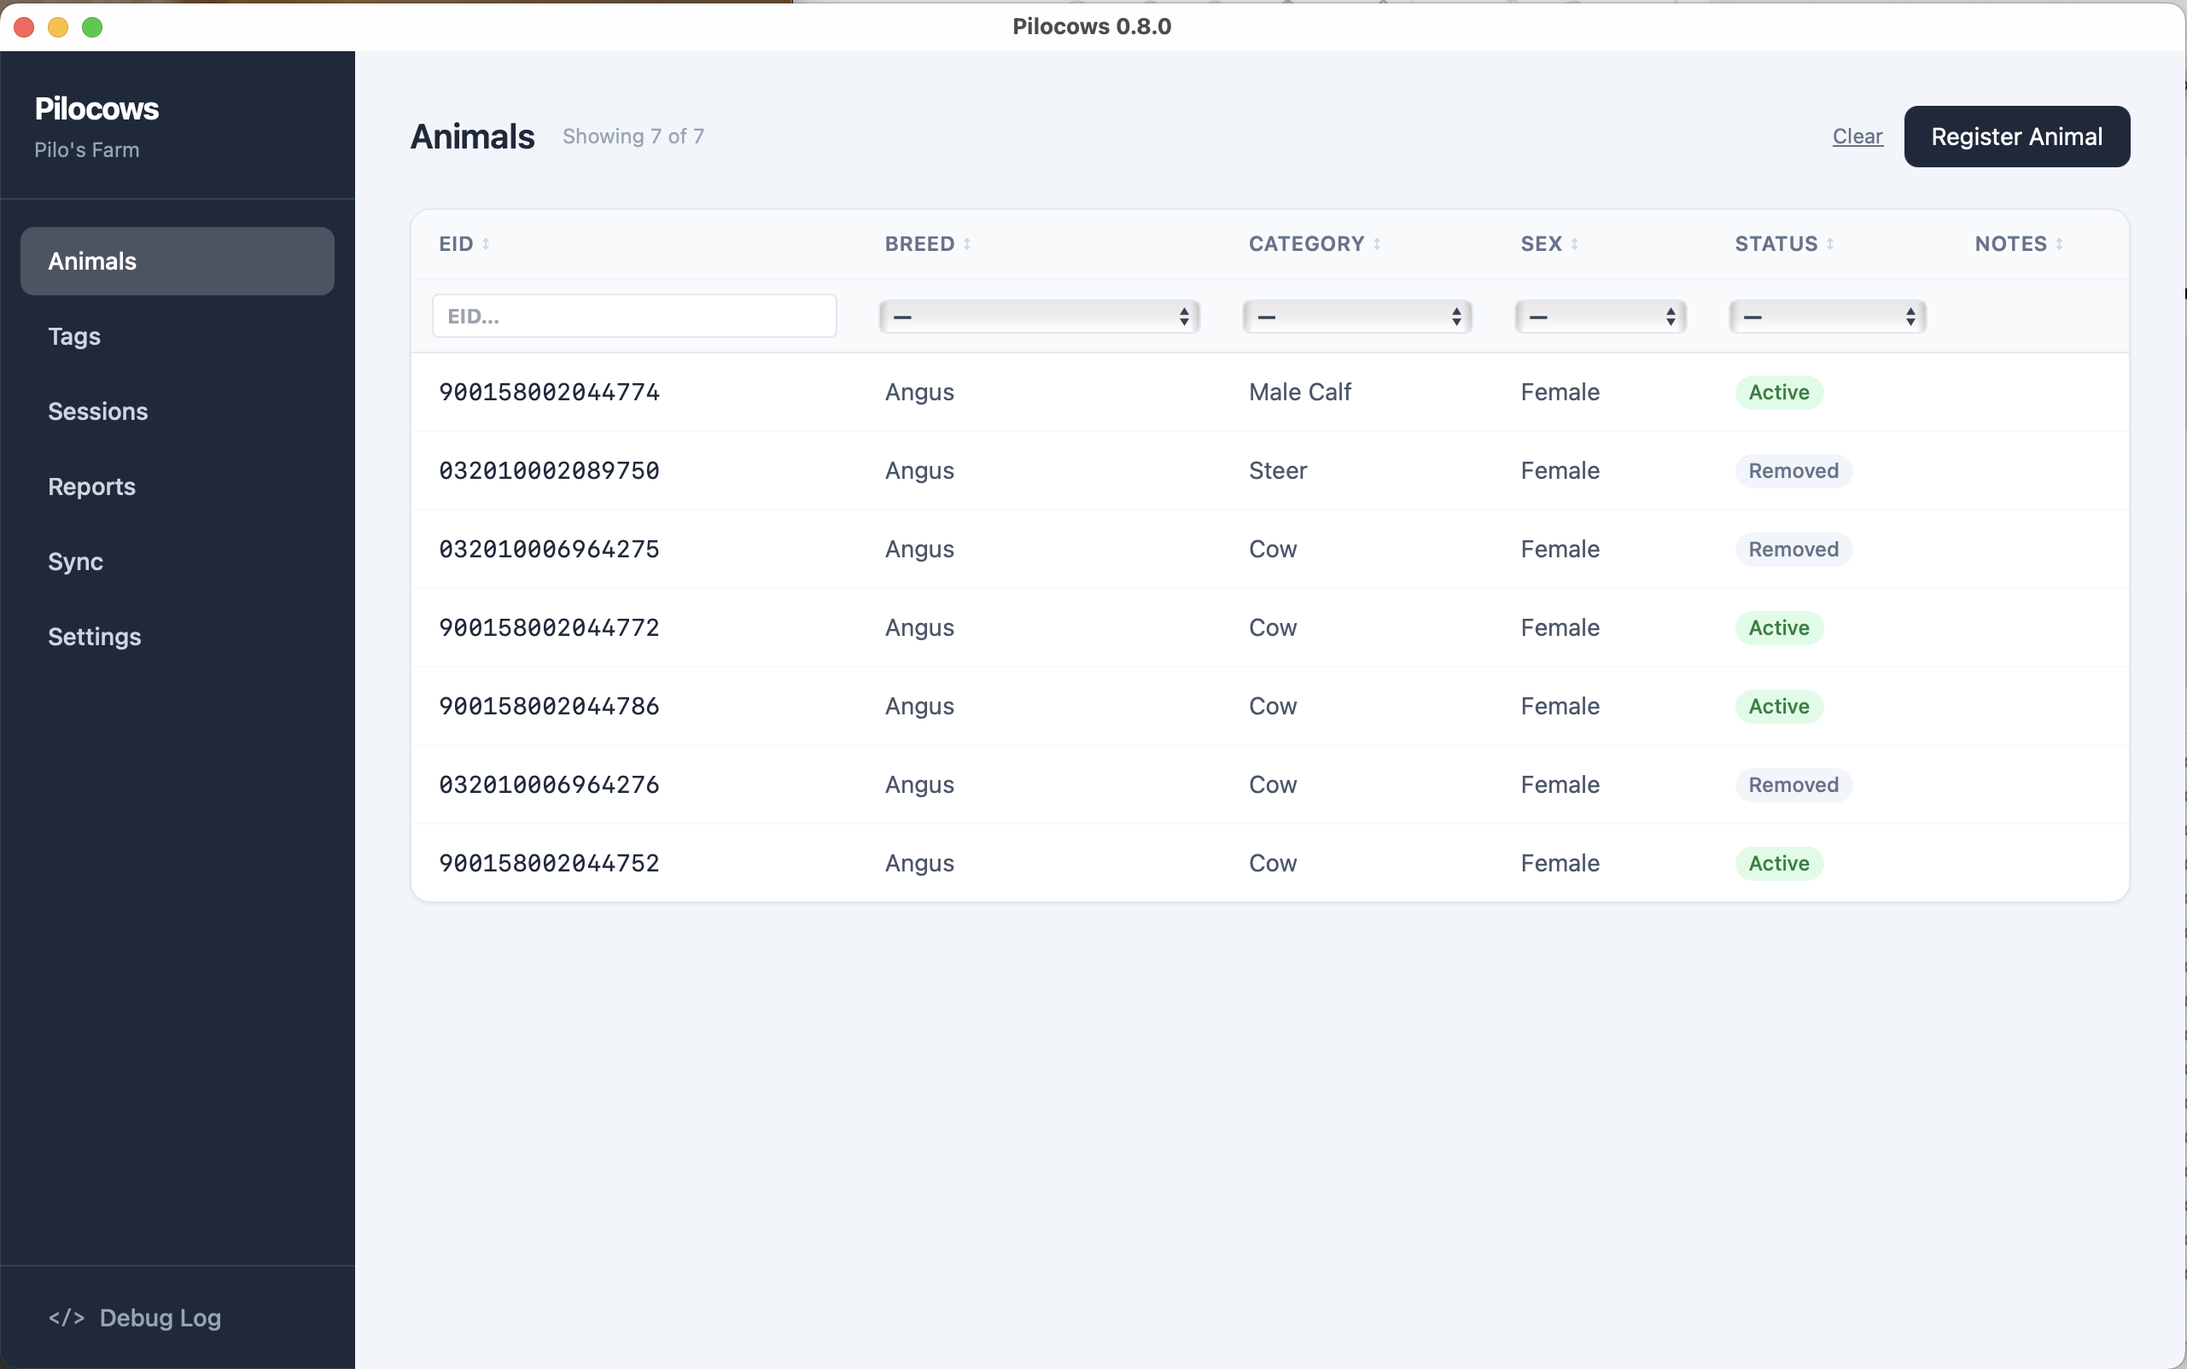
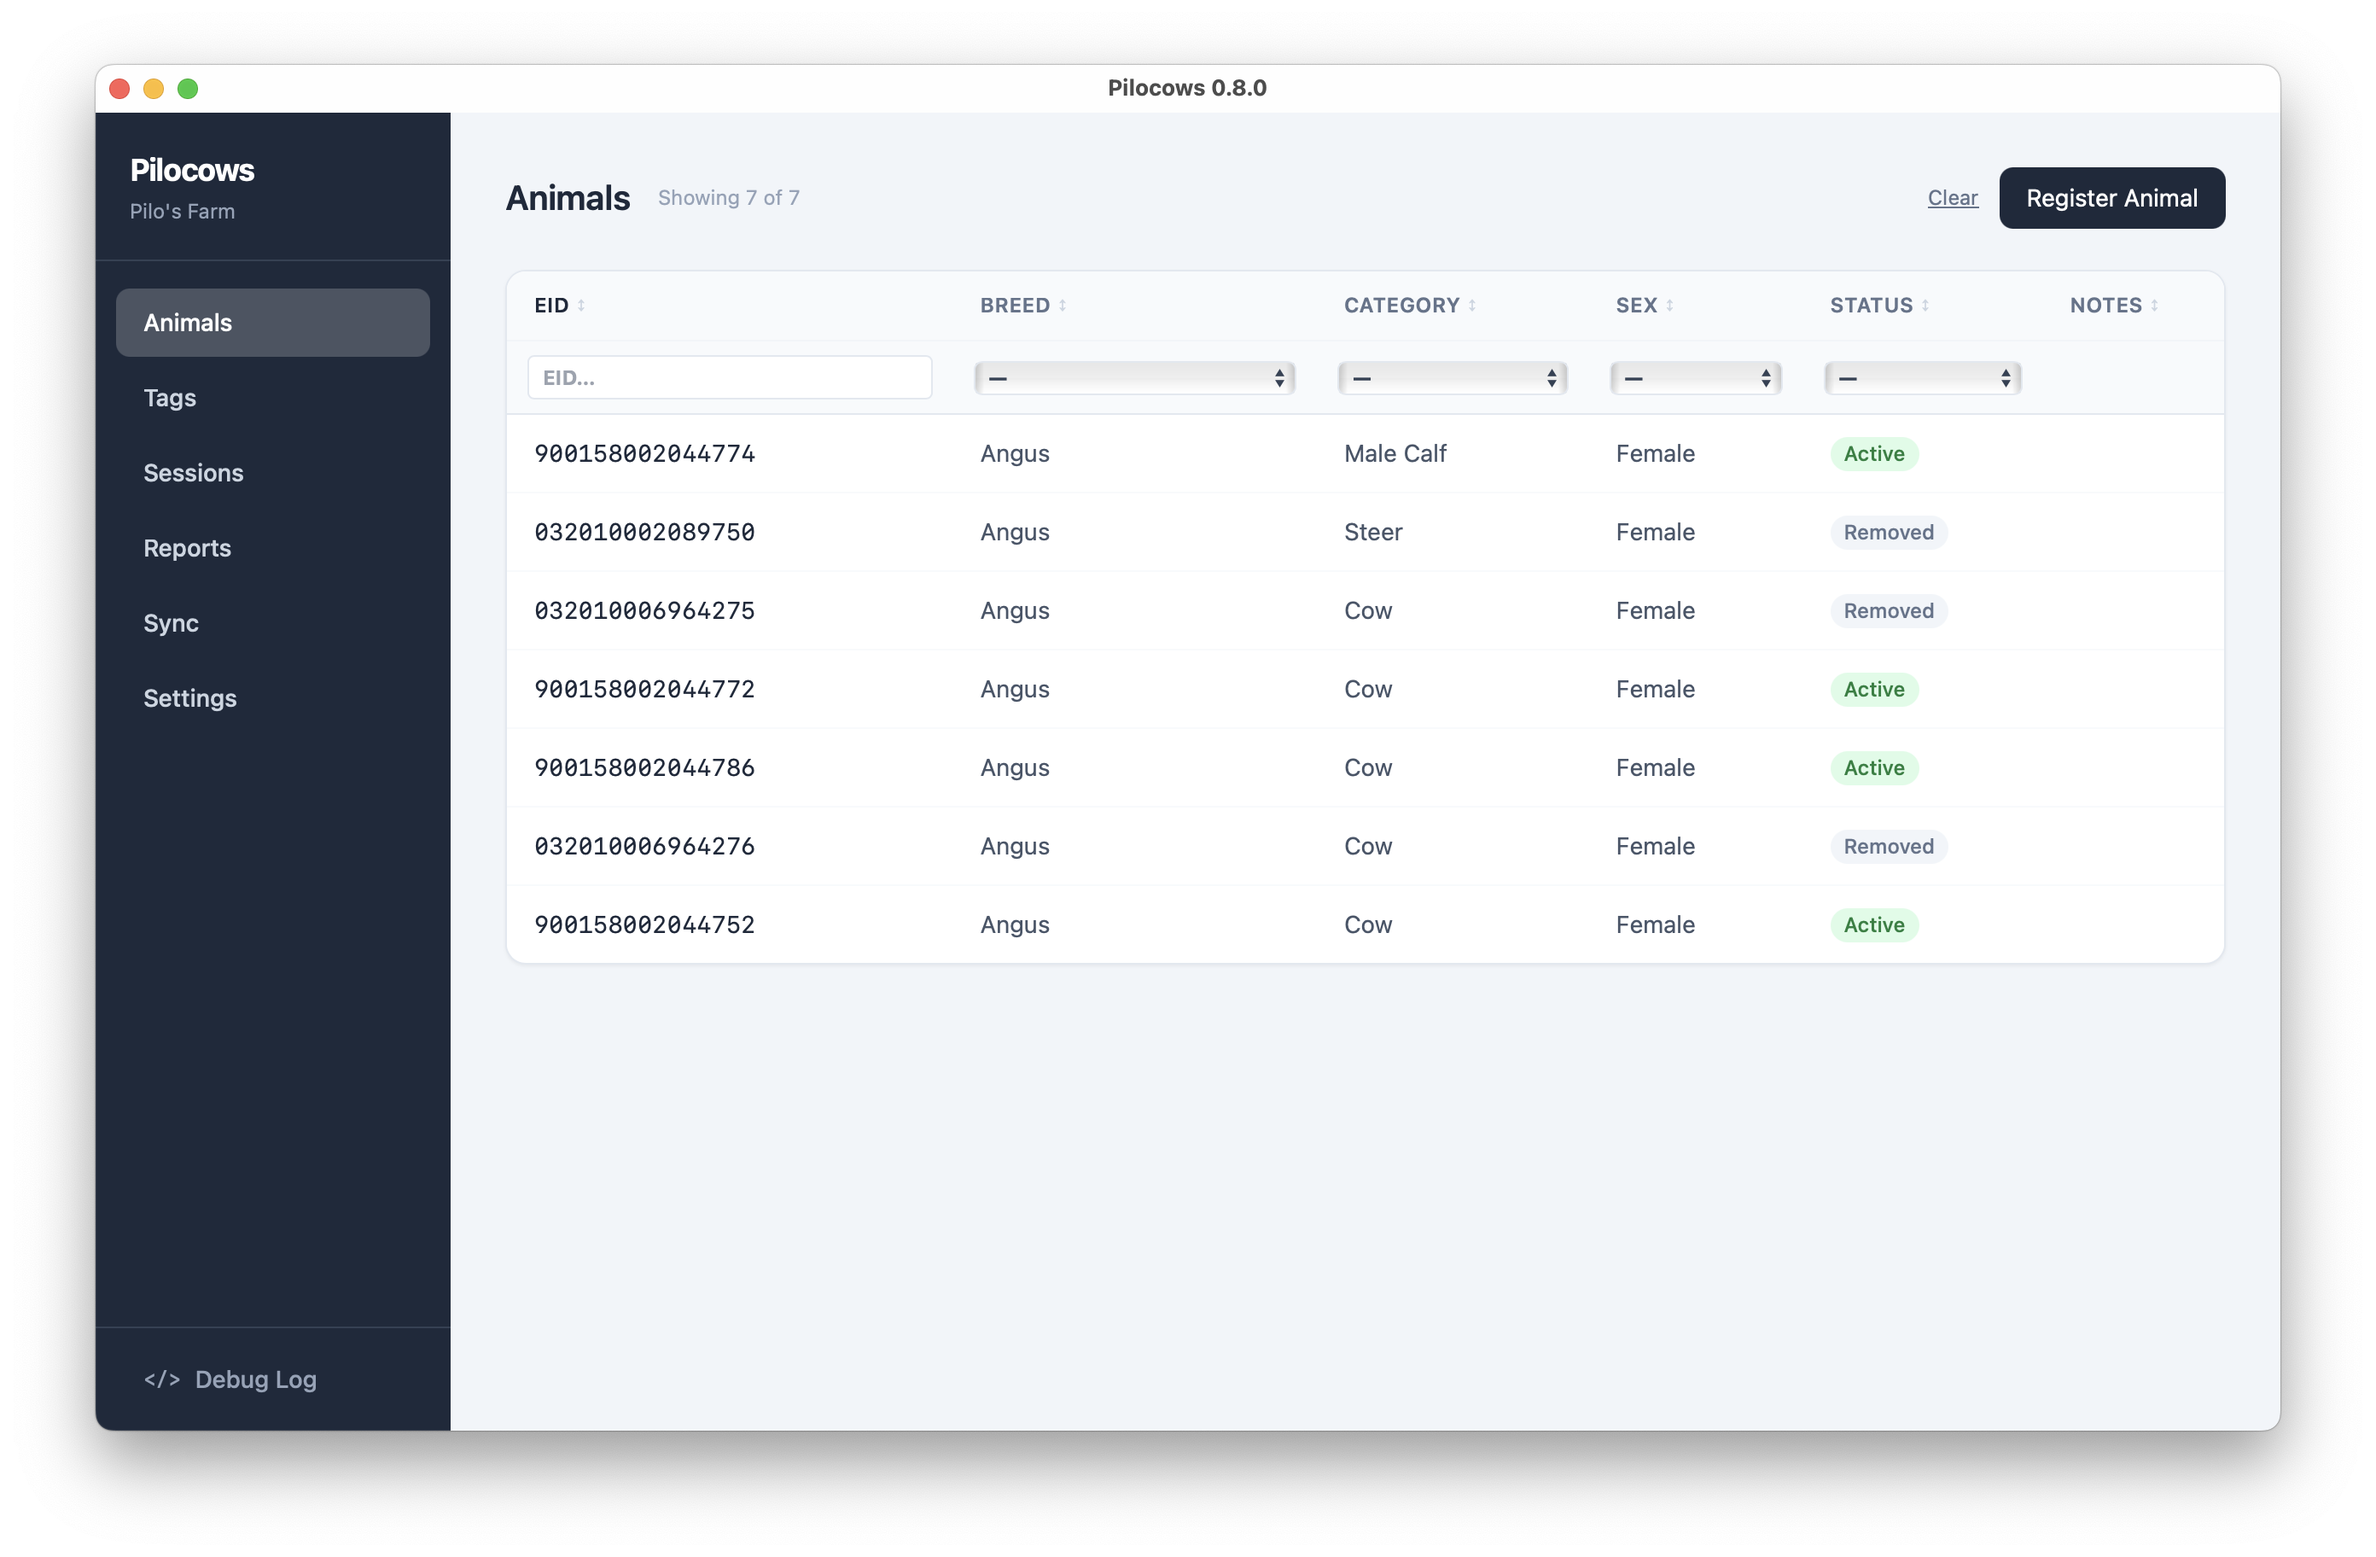
Maybe fix the video

diff --git a/README.md b/README.md
@@ -16,7 +16,10 @@ Animal traceability system for Pilo's farm. Tracks cattle via ISO 11784/85 RFID 
 
 **Demo — scanning tags**
 
-<video src="docs/media/demo.mp4" autoplay loop muted playsinline style="max-width: 100%;"></video>
+<video autoplay loop muted playsinline width="100%">
+  <source src="docs/media/demo.mp4" type="video/mp4">
+  Your browser does not support the video tag.
+</video>
 
 ---
 
